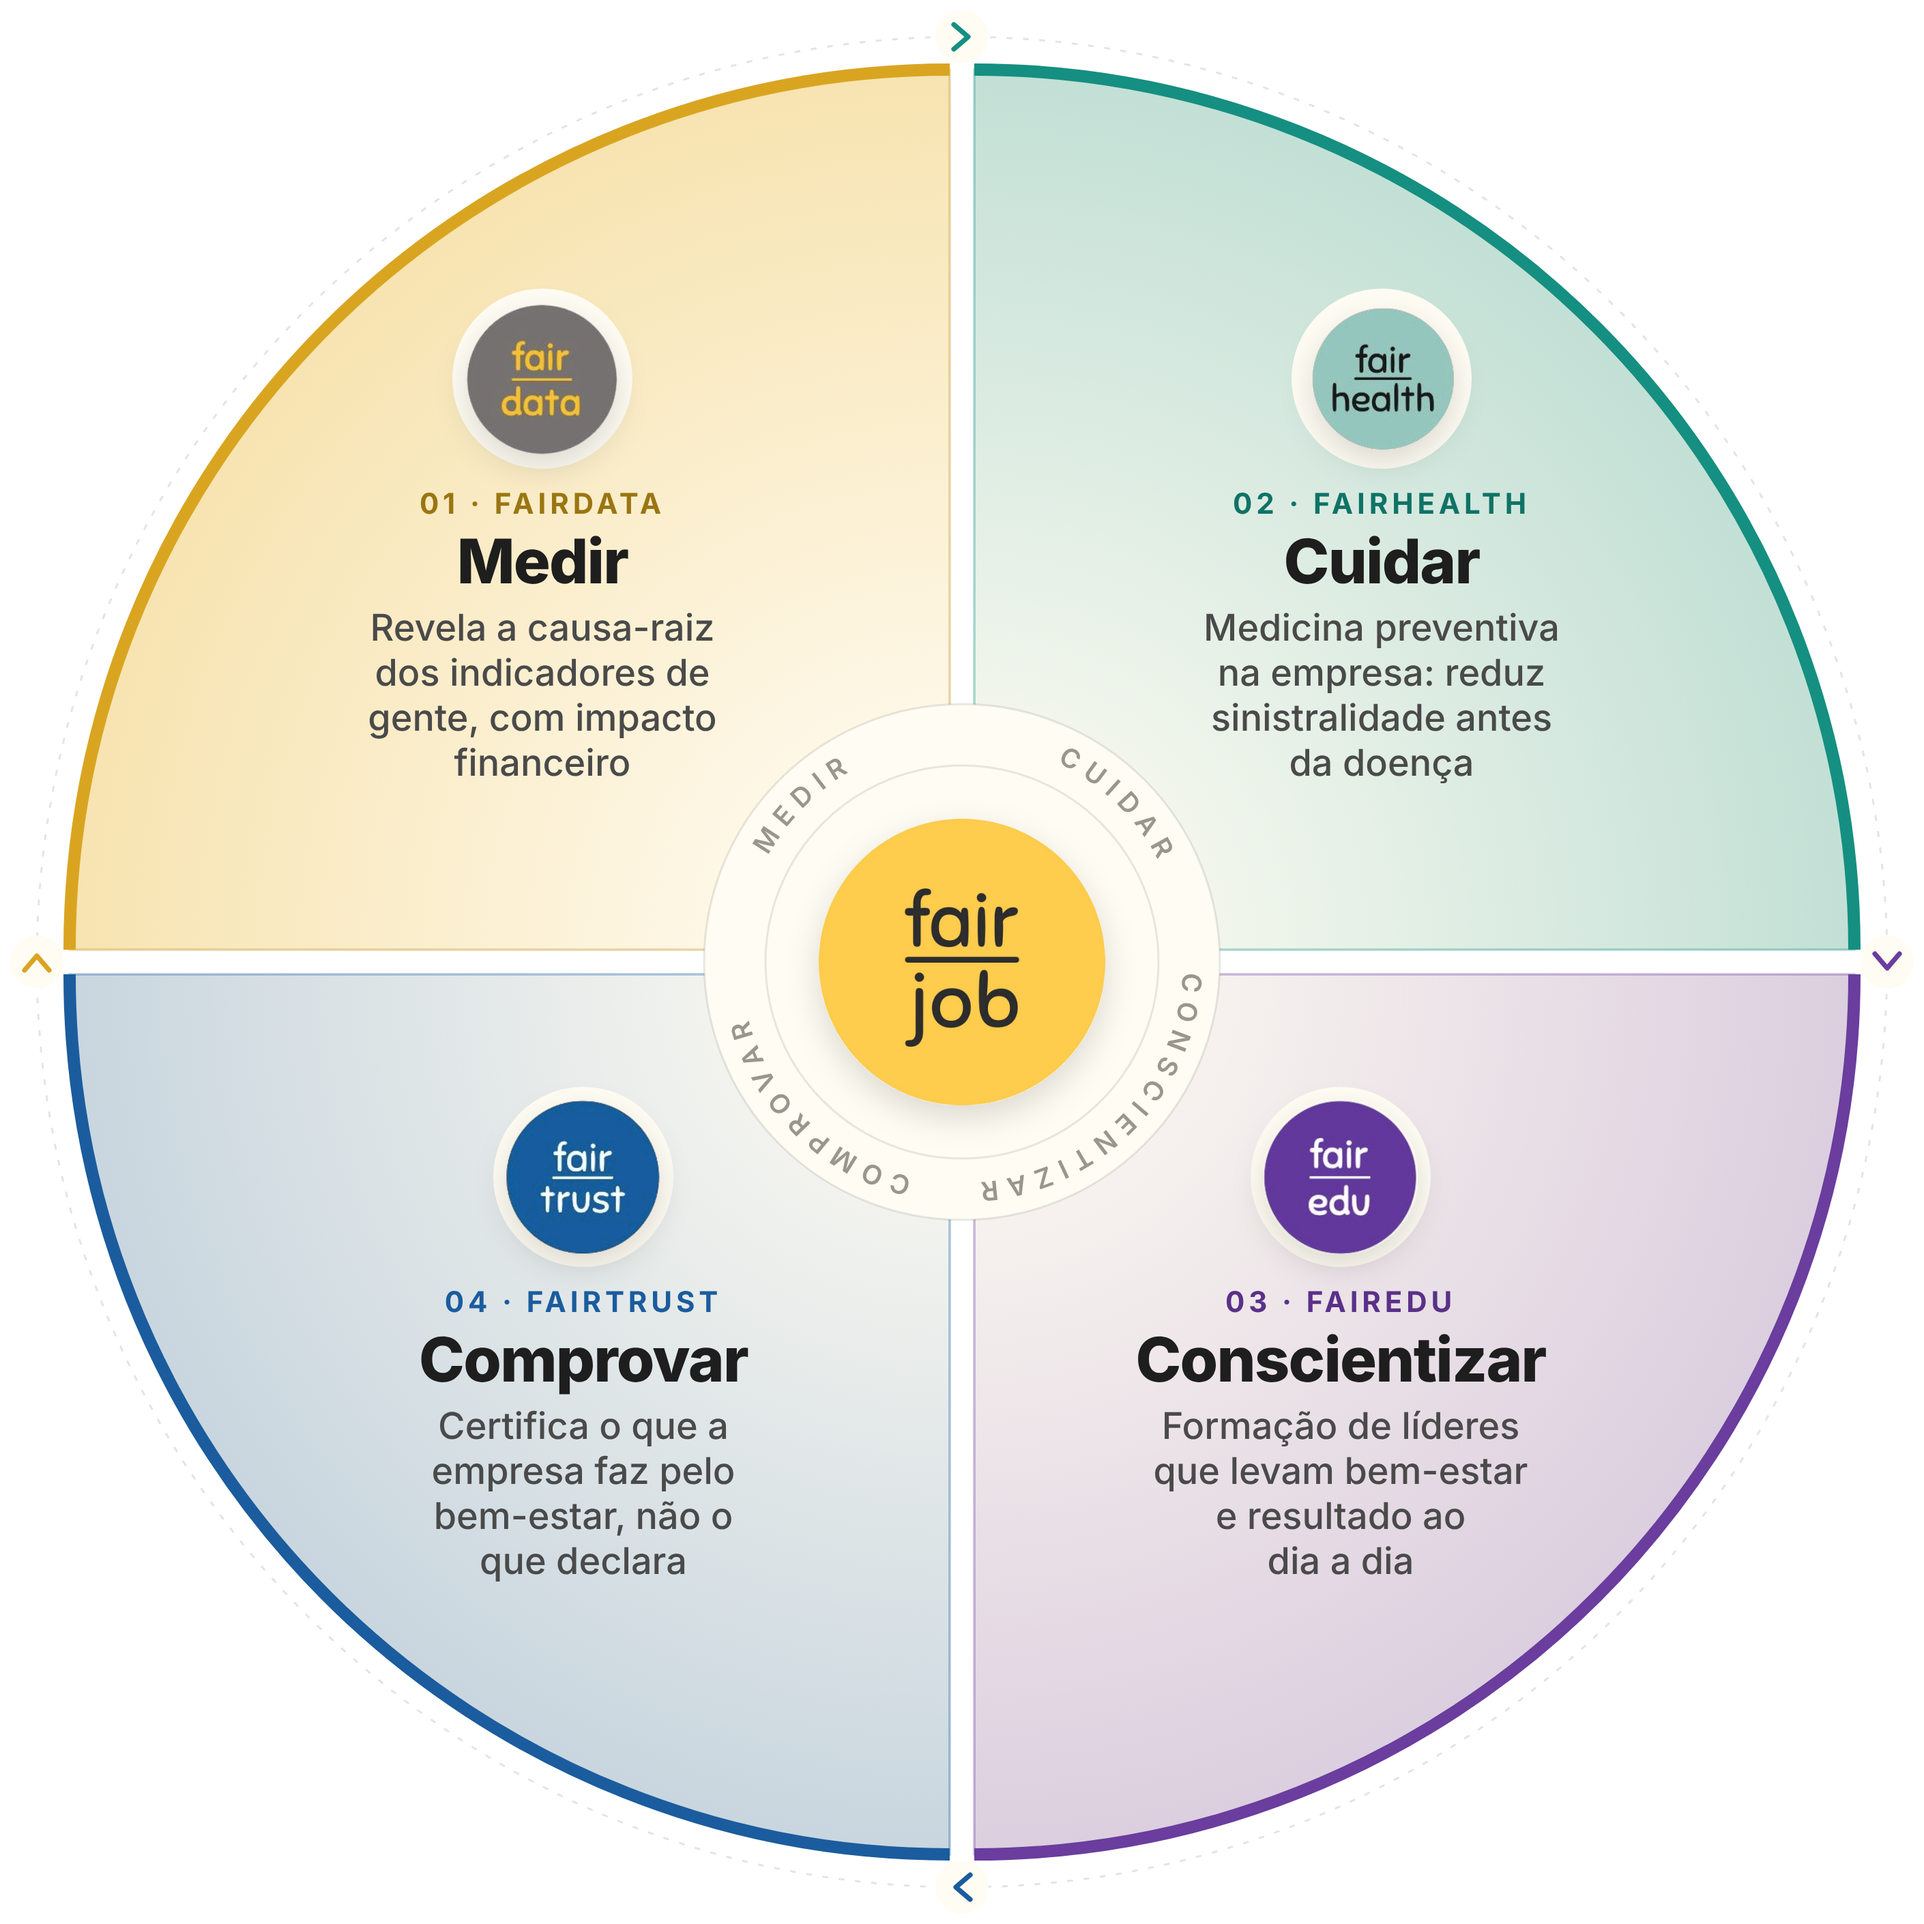
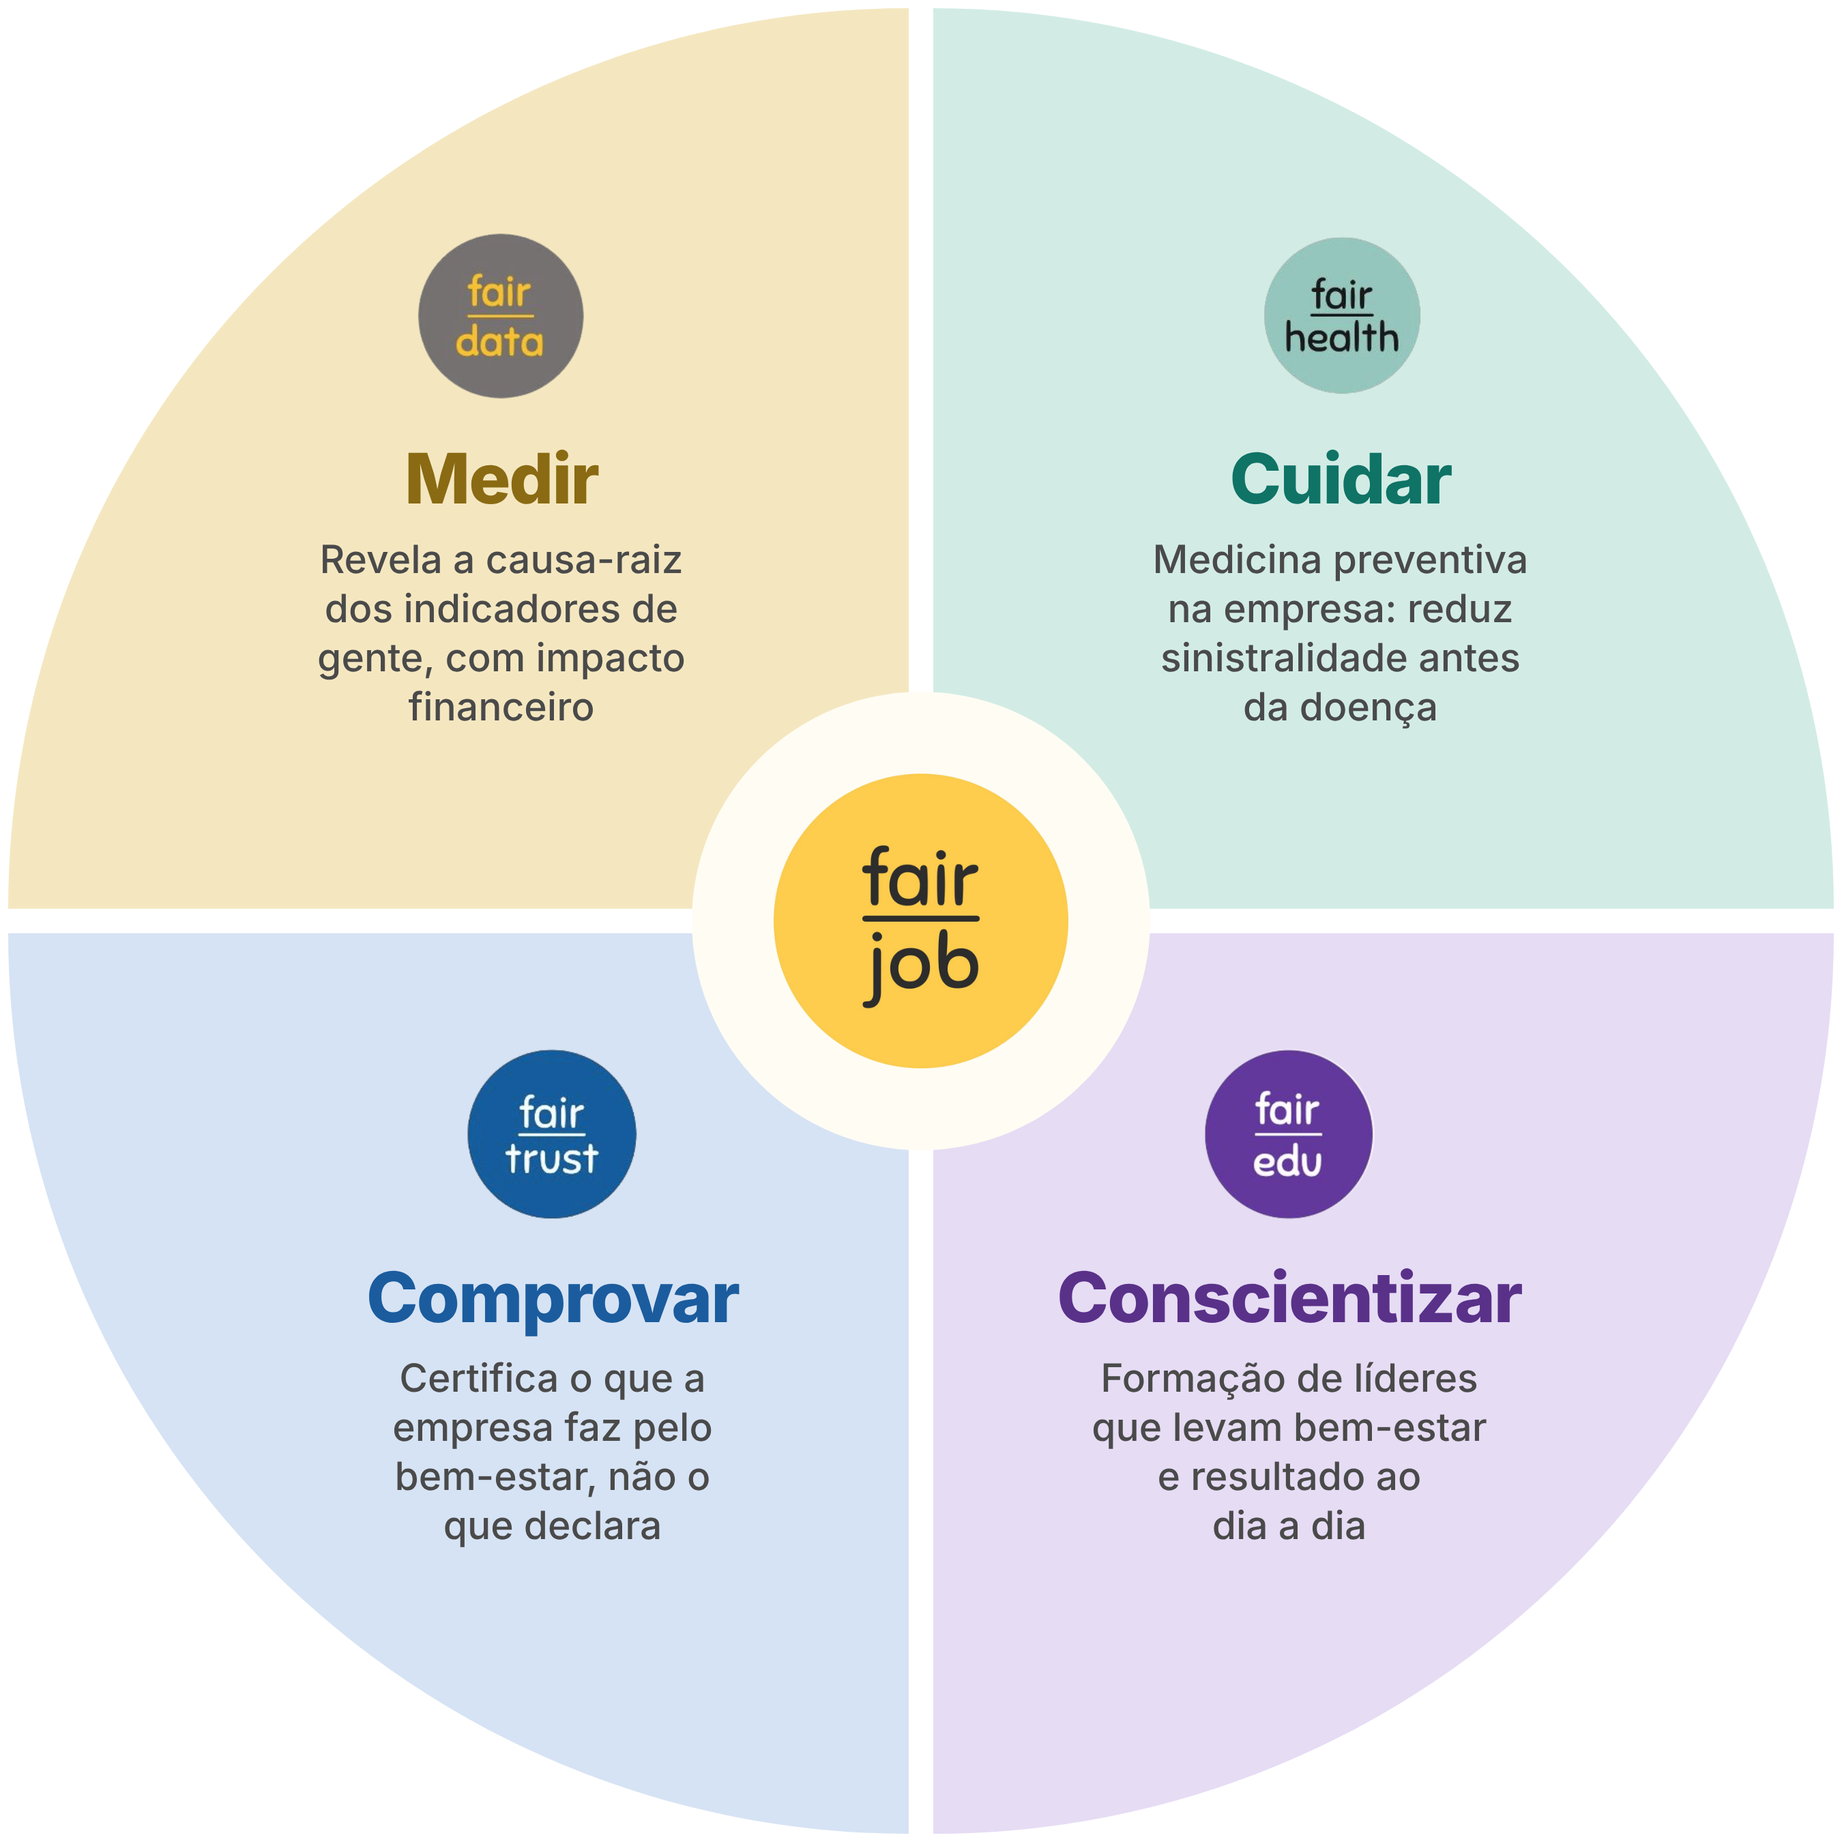
Post 03: simplify 4-brand diagram, add full-slide preview
Claude-Session: https://claude.ai/code/session_01BNRZX6VSYKwV1xCbt1XY1x

Changed region(s): [[0.0, 0.0, 0.9956, 0.9956], [0.56, 0.56, 0.84, 0.84], [0.4356, 0.4356, 0.4667, 0.4667]]

diff --git a/posts/03-quatro-marcas/diagrama.html b/posts/03-quatro-marcas/diagrama.html
@@ -4,115 +4,55 @@
 <meta charset="utf-8">
 <title>FairJob · 4 marcas em 1 slide · diagrama</title>
 <!-- Círculo dividido nas 4 marcas, com a FairJob no centro. Renderizado com
-     fundo transparente e colado no Canva como imagem. Mesma linguagem do
-     diagrama do CTA do carrossel 01. -->
+     fundo transparente para ir ao Canva como imagem; o post.html mostra o
+     slide inteiro para revisão. -->
 <style>
   html, body { margin: 0; background: transparent; }
   svg { display: block; font-family: "Inter", sans-serif; }
-  .num   { font-size: 14px; font-weight: 700; letter-spacing: .14em; }
-  .verbo { font-size: 30px; font-weight: 800; letter-spacing: -.02em; fill: #1E1E1E; }
-  .desc  { font-size: 18px; font-weight: 500; fill: #4A4A4A; }
-  .orbita { font-size: 13px; font-weight: 600; fill: #9A968C; }
+  .verbo { font-size: 34px; font-weight: 800; letter-spacing: -.02em; }
+  .desc  { font-size: 19px; font-weight: 500; fill: #4A4A4A; }
 </style>
 </head>
 <body>
-<svg width="940" height="940" viewBox="0 0 940 940" xmlns="http://www.w3.org/2000/svg">
-  <defs>
-    <radialGradient id="f-data"   gradientUnits="userSpaceOnUse" cx="470" cy="470" r="430"><stop offset=".25" stop-color="#E8B42F" stop-opacity=".06"/><stop offset="1" stop-color="#E8B42F" stop-opacity=".34"/></radialGradient>
-    <radialGradient id="f-health" gradientUnits="userSpaceOnUse" cx="470" cy="470" r="430"><stop offset=".25" stop-color="#158F81" stop-opacity=".05"/><stop offset="1" stop-color="#158F81" stop-opacity=".26"/></radialGradient>
-    <radialGradient id="f-edu"    gradientUnits="userSpaceOnUse" cx="470" cy="470" r="430"><stop offset=".25" stop-color="#6A3D9E" stop-opacity=".05"/><stop offset="1" stop-color="#6A3D9E" stop-opacity=".24"/></radialGradient>
-    <radialGradient id="f-trust"  gradientUnits="userSpaceOnUse" cx="470" cy="470" r="430"><stop offset=".25" stop-color="#1B5C9E" stop-opacity=".05"/><stop offset="1" stop-color="#1B5C9E" stop-opacity=".24"/></radialGradient>
-    <filter id="sombra" x="-50%" y="-50%" width="200%" height="200%"><feDropShadow dx="0" dy="6" stdDeviation="8" flood-color="#1E1E1E" flood-opacity=".14"/></filter>
-    <path id="orbita" d="M362 470 A108 108 0 1 1 578 470 A108 108 0 1 1 362 470"/>
-  </defs>
+<svg width="900" height="900" viewBox="0 0 900 900" xmlns="http://www.w3.org/2000/svg">
+  <!-- quatro partes de um mesmo círculo -->
+  <path transform="translate(-6 -6)" d="M450 450 L10 450 A440 440 0 0 1 450 10 Z"  fill="#F4E7C0"/>
+  <path transform="translate(6 -6)"  d="M450 450 L450 10 A440 440 0 0 1 890 450 Z" fill="#D2ECE5"/>
+  <path transform="translate(6 6)"   d="M450 450 L890 450 A440 440 0 0 1 450 890 Z" fill="#E6DCF4"/>
+  <path transform="translate(-6 6)"  d="M450 450 L450 890 A440 440 0 0 1 10 450 Z"  fill="#D6E3F4"/>
 
-  <!-- 1. órbita externa: o ciclo gira no sentido horário -->
-  <circle cx="470" cy="470" r="452" fill="none" stroke="#1E1E1E" stroke-opacity=".12" stroke-dasharray="2 6" stroke-linecap="round"/>
+  <!-- a FairJob no centro -->
+  <circle cx="450" cy="450" r="112" fill="#FFFCF3"/>
+  <image href="../assets/logos/fairjob.png" x="378" y="378" width="144" height="144"/>
 
-  <!-- 2. as quatro partes do todo, com borda externa na cor da marca -->
-  <g transform="translate(-6 -6)">
-    <path d="M470 470 L40 470 A430 430 0 0 1 470 40 Z" fill="#FFFCF3"/>
-    <path d="M470 470 L40 470 A430 430 0 0 1 470 40 Z" fill="url(#f-data)" stroke="#B8901F" stroke-opacity=".35" stroke-width="1.2"/>
-    <path d="M40 470 A430 430 0 0 1 470 40" fill="none" stroke="#D9A521" stroke-width="6"/>
-  </g>
-  <g transform="translate(6 -6)">
-    <path d="M470 470 L470 40 A430 430 0 0 1 900 470 Z" fill="#FFFCF3"/>
-    <path d="M470 470 L470 40 A430 430 0 0 1 900 470 Z" fill="url(#f-health)" stroke="#158F81" stroke-opacity=".35" stroke-width="1.2"/>
-    <path d="M470 40 A430 430 0 0 1 900 470" fill="none" stroke="#158F81" stroke-width="6"/>
-  </g>
-  <g transform="translate(6 6)">
-    <path d="M470 470 L900 470 A430 430 0 0 1 470 900 Z" fill="#FFFCF3"/>
-    <path d="M470 470 L900 470 A430 430 0 0 1 470 900 Z" fill="url(#f-edu)" stroke="#6A3D9E" stroke-opacity=".35" stroke-width="1.2"/>
-    <path d="M900 470 A430 430 0 0 1 470 900" fill="none" stroke="#6A3D9E" stroke-width="6"/>
-  </g>
-  <g transform="translate(-6 6)">
-    <path d="M470 470 L470 900 A430 430 0 0 1 40 470 Z" fill="#FFFCF3"/>
-    <path d="M470 470 L470 900 A430 430 0 0 1 40 470 Z" fill="url(#f-trust)" stroke="#1B5C9E" stroke-opacity=".35" stroke-width="1.2"/>
-    <path d="M470 900 A430 430 0 0 1 40 470" fill="none" stroke="#1B5C9E" stroke-width="6"/>
-  </g>
-
-  <!-- 3. setas nas emendas: cada marca passa para a próxima -->
-  <g fill="none" stroke-width="2.4" stroke-linecap="round" stroke-linejoin="round">
-    <circle cx="470" cy="18" r="13" fill="#FFFCF3" stroke="none"/><path d="M466 12 L473 18 L466 24" stroke="#158F81"/>
-    <circle cx="922" cy="470" r="13" fill="#FFFCF3" stroke="none"/><path d="M916 466 L922 473 L928 466" stroke="#6A3D9E"/>
-    <circle cx="470" cy="922" r="13" fill="#FFFCF3" stroke="none"/><path d="M474 916 L467 922 L474 928" stroke="#1B5C9E"/>
-    <circle cx="18" cy="470" r="13" fill="#FFFCF3" stroke="none"/><path d="M12 474 L18 467 L24 474" stroke="#D9A521"/>
-  </g>
-
-  <!-- 4. a FairJob no centro, com os quatro verbos em órbita -->
-  <circle cx="470" cy="470" r="126" fill="#FFFCF3"/>
-  <circle cx="470" cy="470" r="126" fill="none" stroke="#1E1E1E" stroke-opacity=".10"/>
-  <circle cx="470" cy="470" r="96" fill="none" stroke="#1E1E1E" stroke-opacity=".10"/>
-  <!-- cada verbo fica ao lado da sua marca -->
-  <text class="orbita" text-anchor="middle" letter-spacing="4">
-    <textPath href="#orbita" startOffset="12.5%">MEDIR</textPath>
-    <textPath href="#orbita" startOffset="37.5%">CUIDAR</textPath>
-    <textPath href="#orbita" startOffset="62.5%">CONSCIENTIZAR</textPath>
-    <textPath href="#orbita" startOffset="87.5%">COMPROVAR</textPath>
-  </text>
-  <image href="../assets/logos/fairjob.png" x="400" y="400" width="140" height="140" filter="url(#sombra)"/>
-
-  <!-- 5. conteúdo de cada marca: logo, número, verbo e o que entrega -->
   <g text-anchor="middle">
-    <!-- fairdata -->
-    <circle cx="265" cy="185" r="44" fill="#FFFCF3"/>
-    <image href="../assets/logos/fairdata.png" x="227" y="147" width="76" height="76" filter="url(#sombra)"/>
-    <text class="num" x="265" y="251" fill="#9A7612">01 · FAIRDATA</text>
-    <text class="verbo" x="265" y="285">Medir</text>
-    <text class="desc" x="265" y="313">Revela a causa-raiz</text>
-    <text class="desc" x="265" y="335">dos indicadores de</text>
-    <text class="desc" x="265" y="357">gente, com impacto</text>
-    <text class="desc" x="265" y="379">financeiro</text>
+    <image href="../assets/logos/fairdata.png" x="203" y="112" width="84" height="84"/>
+    <text class="verbo" x="245" y="246" fill="#8A6A12">Medir</text>
+    <text class="desc" x="245" y="280">Revela a causa-raiz</text>
+    <text class="desc" x="245" y="304">dos indicadores de</text>
+    <text class="desc" x="245" y="328">gente, com impacto</text>
+    <text class="desc" x="245" y="352">financeiro</text>
 
-    <!-- fairhealth -->
-    <circle cx="675" cy="185" r="44" fill="#FFFCF3"/>
-    <image href="../assets/logos/fairhealth.png" x="637" y="147" width="76" height="76" filter="url(#sombra)"/>
-    <text class="num" x="675" y="251" fill="#0F7366">02 · FAIRHEALTH</text>
-    <text class="verbo" x="675" y="285">Cuidar</text>
-    <text class="desc" x="675" y="313">Medicina preventiva</text>
-    <text class="desc" x="675" y="335">na empresa: reduz</text>
-    <text class="desc" x="675" y="357">sinistralidade antes</text>
-    <text class="desc" x="675" y="379">da doença</text>
+    <image href="../assets/logos/fairhealth.png" x="613" y="112" width="84" height="84"/>
+    <text class="verbo" x="655" y="246" fill="#0F7366">Cuidar</text>
+    <text class="desc" x="655" y="280">Medicina preventiva</text>
+    <text class="desc" x="655" y="304">na empresa: reduz</text>
+    <text class="desc" x="655" y="328">sinistralidade antes</text>
+    <text class="desc" x="655" y="352">da doença</text>
 
-    <!-- fairedu -->
-    <circle cx="655" cy="575" r="44" fill="#FFFCF3"/>
-    <image href="../assets/logos/fairedu.png" x="617" y="537" width="76" height="76" filter="url(#sombra)"/>
-    <text class="num" x="655" y="641" fill="#5A3189">03 · FAIREDU</text>
-    <text class="verbo" x="655" y="675">Conscientizar</text>
-    <text class="desc" x="655" y="703">Formação de líderes</text>
-    <text class="desc" x="655" y="725">que levam bem-estar</text>
-    <text class="desc" x="655" y="747">e resultado ao</text>
-    <text class="desc" x="655" y="769">dia a dia</text>
+    <image href="../assets/logos/fairedu.png" x="588" y="512" width="84" height="84"/>
+    <text class="verbo" x="630" y="646" fill="#5A3189">Conscientizar</text>
+    <text class="desc" x="630" y="680">Formação de líderes</text>
+    <text class="desc" x="630" y="704">que levam bem-estar</text>
+    <text class="desc" x="630" y="728">e resultado ao</text>
+    <text class="desc" x="630" y="752">dia a dia</text>
 
-    <!-- fairtrust -->
-    <circle cx="285" cy="575" r="44" fill="#FFFCF3"/>
-    <image href="../assets/logos/fairtrust.png" x="247" y="537" width="76" height="76" filter="url(#sombra)"/>
-    <text class="num" x="285" y="641" fill="#1B5C9E">04 · FAIRTRUST</text>
-    <text class="verbo" x="285" y="675">Comprovar</text>
-    <text class="desc" x="285" y="703">Certifica o que a</text>
-    <text class="desc" x="285" y="725">empresa faz pelo</text>
-    <text class="desc" x="285" y="747">bem-estar, não o</text>
-    <text class="desc" x="285" y="769">que declara</text>
+    <image href="../assets/logos/fairtrust.png" x="228" y="512" width="84" height="84"/>
+    <text class="verbo" x="270" y="646" fill="#1B5C9E">Comprovar</text>
+    <text class="desc" x="270" y="680">Certifica o que a</text>
+    <text class="desc" x="270" y="704">empresa faz pelo</text>
+    <text class="desc" x="270" y="728">bem-estar, não o</text>
+    <text class="desc" x="270" y="752">que declara</text>
   </g>
 </svg>
 </body>

diff --git a/posts/03-quatro-marcas/post.html b/posts/03-quatro-marcas/post.html
@@ -1,0 +1,25 @@
+<!doctype html>
+<html lang="pt-BR">
+<head>
+<meta charset="utf-8">
+<title>FairJob · Post 03 · 4 marcas em 1 slide</title>
+<!-- Prévia do slide inteiro, como ficará no Canva. -->
+<style>
+  * { box-sizing: border-box; margin: 0; padding: 0; }
+  body { background: #ccc; }
+  .slide { width: 1080px; height: 1350px; position: relative; overflow: hidden; background: #FFFCF3; color: #1E1E1E; font-family: "Inter", sans-serif; }
+  h1 { position: absolute; top: 100px; left: 120px; font-size: 64px; font-weight: 800; letter-spacing: -.03em; line-height: 1.1; }
+  .sub { position: absolute; top: 185px; left: 120px; font-size: 34px; color: #4A4A4A; }
+  iframe { position: absolute; top: 290px; left: 90px; width: 900px; height: 900px; border: 0; }
+  .handle { position: absolute; bottom: 64px; left: 120px; font-size: 26px; color: #8A8A8A; }
+</style>
+</head>
+<body>
+<section class="slide">
+  <h1>Um único ecossistema.</h1>
+  <p class="sub">O ciclo completo da governança social.</p>
+  <iframe src="diagrama.html" scrolling="no"></iframe>
+  <div class="handle">@fairjob.br</div>
+</section>
+</body>
+</html>
